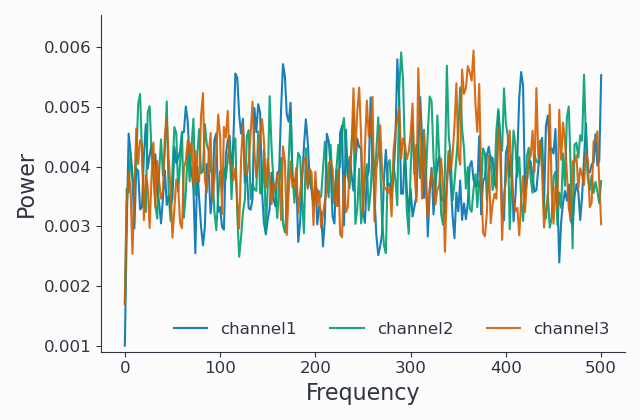
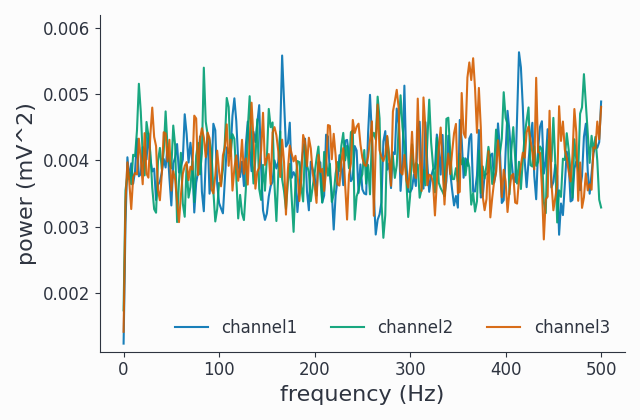
DOC: Add raw fft comparison to Welch tutorial
Changes to be committed:
	modified:   doc/source/_static/welch_basic_power.png
	new file:   doc/source/_static/welch_raw_fft_power.png
	modified:   doc/source/tutorials/welch.rst

diff --git a/doc/source/tutorials/welch.rst b/doc/source/tutorials/welch.rst
@@ -8,8 +8,8 @@ is described in the following publication (`DOI link <https://doi.org/10.1109/TA
 a method based on time averaging over short, modified periodograms.
 IEEE Transactions on Audio and Electroacoustics, 15(2), 70-73.`
 
-In short, it splits the original time-domain signal into several, potentially overlapping, segments. A taper (window function) is then applied,
-and the data is transferred into the frequency domain by computing the FFT. Computing the squared magnitude results in one periodogram per segment.
+In short, it splits the original time-domain signal into several, potentially overlapping, segments. A taper (window function) is then applied on each segment individually,
+and each segment is transferred into the frequency domain by computing the FFT. Computing the squared magnitude results in one periodogram per segment.
 Welch refers to these as *modified periodograms* in the publication, because of the taper that has been applied. These
 powers are averaged over the windows to obtain the final estimate of the power spectrum.
 
@@ -68,10 +68,9 @@ Let's inspect the resulting `SpectralData` instance by looking at its dimensions
 The shape is as expected:
 
 * The `time` axis contains two entries, one per trial, because by default there is no trial averaging (`keeptrials` is `True`). With trial averaging, there would only be a single entry here.
-* The `taper` axis will always have size 1 for Welch, even for multi-tapering, as taper averaging must be active for Welch (`keeptapers` must be `False`), as explained in the function documentation.
-* The size of the frequency axis (`freq`, 512 here), i.e., the frequency resolution, depends on the signal length of the input windows and is thus a function of the input signal, `t_ftimwin`, `toi`, and potentially other settings (like a `foilim`, i.e. a frequency selection).
+* The `taper` axis will always have size 1 for Welch, even for multi-tapering, as tapers must be averaged for Welch's method (`keeptapers` must be `False`), as explained in the function documentation.
+* The size of the frequency axis (`freq`, 251 here), i.e., the frequency resolution, depends on the signal length of the input windows and is thus a function of the input signal, `t_ftimwin` and  `toi`, and potentially other settings (like a `foilim`, i.e. limiting the frequencies of interest).
 * The channels are unchanged, as we receive one result per channel.
-
 
 We can also visualize the power spectrum. Here we select the first of the two trials:
 
@@ -96,8 +95,33 @@ Many settings affect the outcome of a Welch run, including:
 * `t_ftimwin` : window length (a.k.a. segment length) in seconds.
 * `toi`       : overlap between windows, 0.5 = 50 percent overlap.
 * `foilim`    : frequencies of interest,  a specific frequency range, e.g. set to ``[5, 100]`` to get results between 5 to 100 Hz.
-* `taper` and `tapsmofrq` : for taper selection and multi-tapering. Note that in case of multi-tapering, the data in the windows will be averaged across the tapers first, then the Welch procedure will run.
-* `keeptrials` : whether trials should be left as-is, or you want a trial-average. If `false`, and thus trial-averaging is requested, it will happen on the raw data in the time domain, before Welch is run.
+* `taper` and `tapsmofrq` : for taper selection and multi-tapering. Note that in case of multi-tapering, the data in the windows will be averaged across the tapers first
+* `keeptrials` : whether trials should be left as-is, or you want a trial-average. If ``False``, and thus trial-averaging is requested, it will happen on the raw data in the time domain, before Welch is run.
+
+Comparison with raw FFT
+------------------------
+
+Let's compare Welch's result with the raw FFT estimate::
+
+  fft_psd = spy.freqanalysis(wn)
+  fft_psd.singlepanelplot(trials=0, channel=0, logscale=False)
+
+.. image:: ../_static/welch_raw_fft_power.png
+
+The power spectral esimtate is much more noisy, meaning the variance per frequency bin is considerably larger compared to Welch's estimate.
+
+.. note::
+   We don't need any parameters for ``freqanalysis`` here, as ``method='mtmfft'`` and ``tapsmofrq=None`` are the defaults.
+
+Note that the absolute power values are lower, as we have a lot  more frequency bins when calculating the raw FFT at once for the unsegmented signal::
+
+  fft_psd.freq.shape   # (10001,)
+  welch_psd.freq.shape   # (251,)
+
+Syncopy normalizes spectral power per 1Hz bin, meaning that the noise power gets diluted over many more frequency bins when using the raw FFT. We can check that by summing over the frequency axis for both estimates::
+
+  np.sum(fft_psd.show(trials=0, channel=0))   # will be ~1
+  np.sum(welch_psd.show(trials=0, channel=0))   # will also be ~1
 
 
 Investigating the Effects of the Overlap Parameter as a Function of Signal Length
